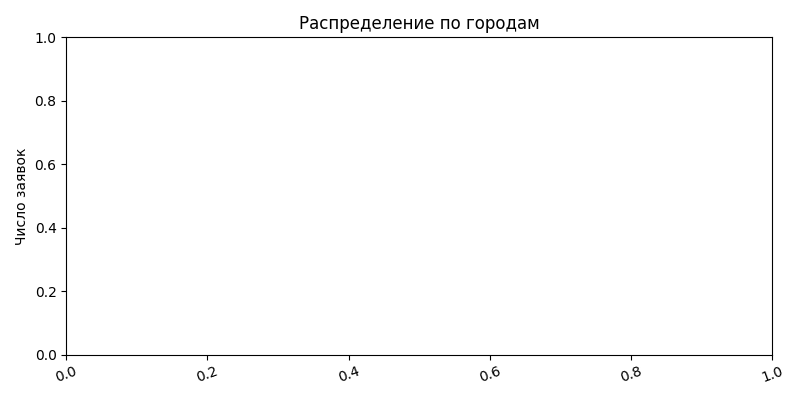
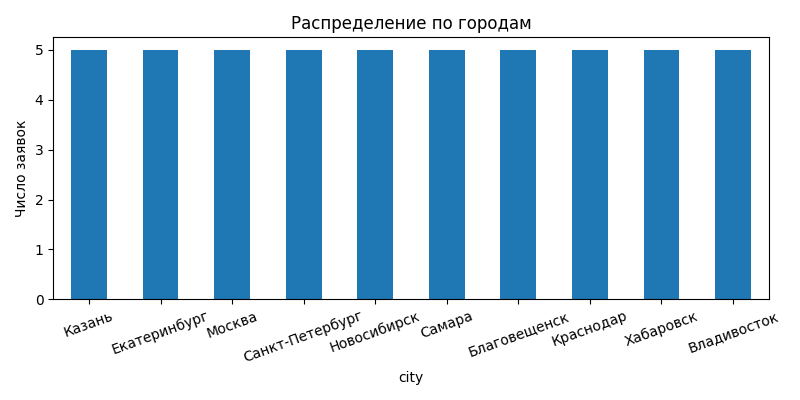
Add report

diff --git a/семинар_2/starter/generator.py b/семинар_2/starter/generator.py
@@ -12,7 +12,7 @@ client = make_client()
 MODEL = get_model()
 
 PER_CITY = 5
-MAX_WORKERS = 5
+MAX_WORKERS = 15
 
 SPECIALITIES = [
     "программист",
@@ -118,6 +118,7 @@ def to_dataframe(apps: list[Application]) -> pd.DataFrame:
 def plot_bar(series: pd.Series, title: str, out: str):
     counts = series.value_counts()
     plt.figure(figsize=(8, 4))
+    counts.plot.bar()
     plt.title(title)
     plt.ylabel("Число заявок")
     plt.xticks(rotation=20)